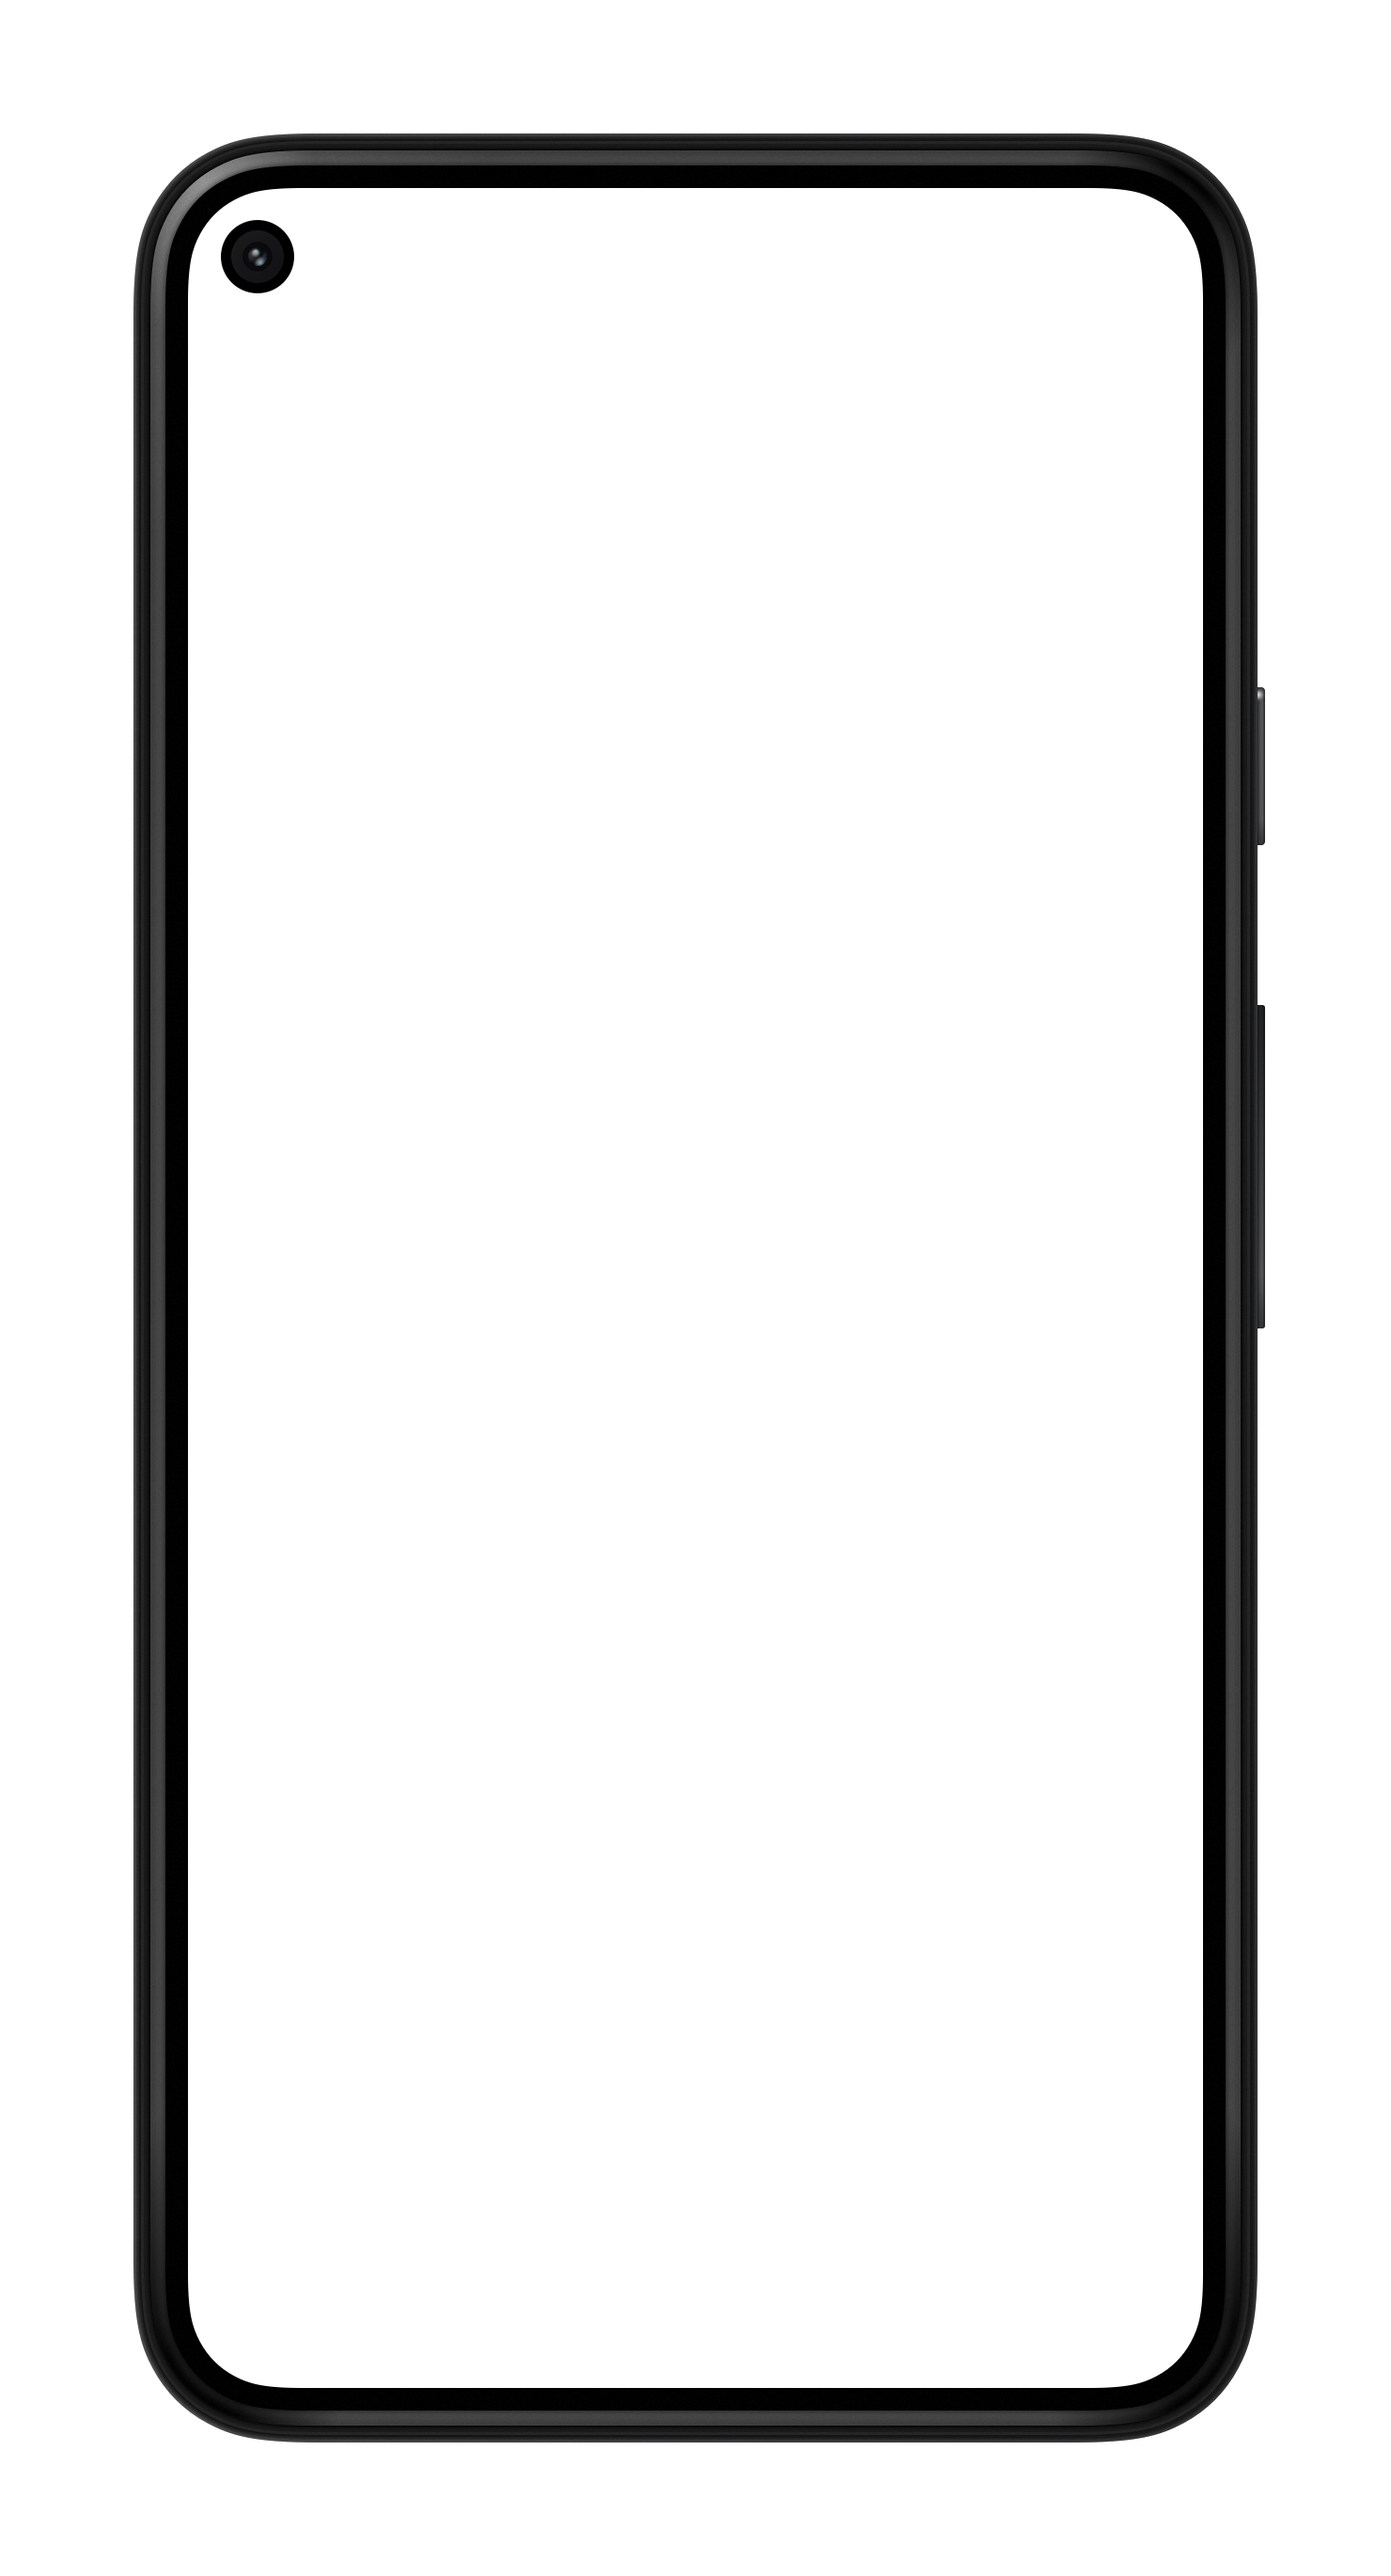
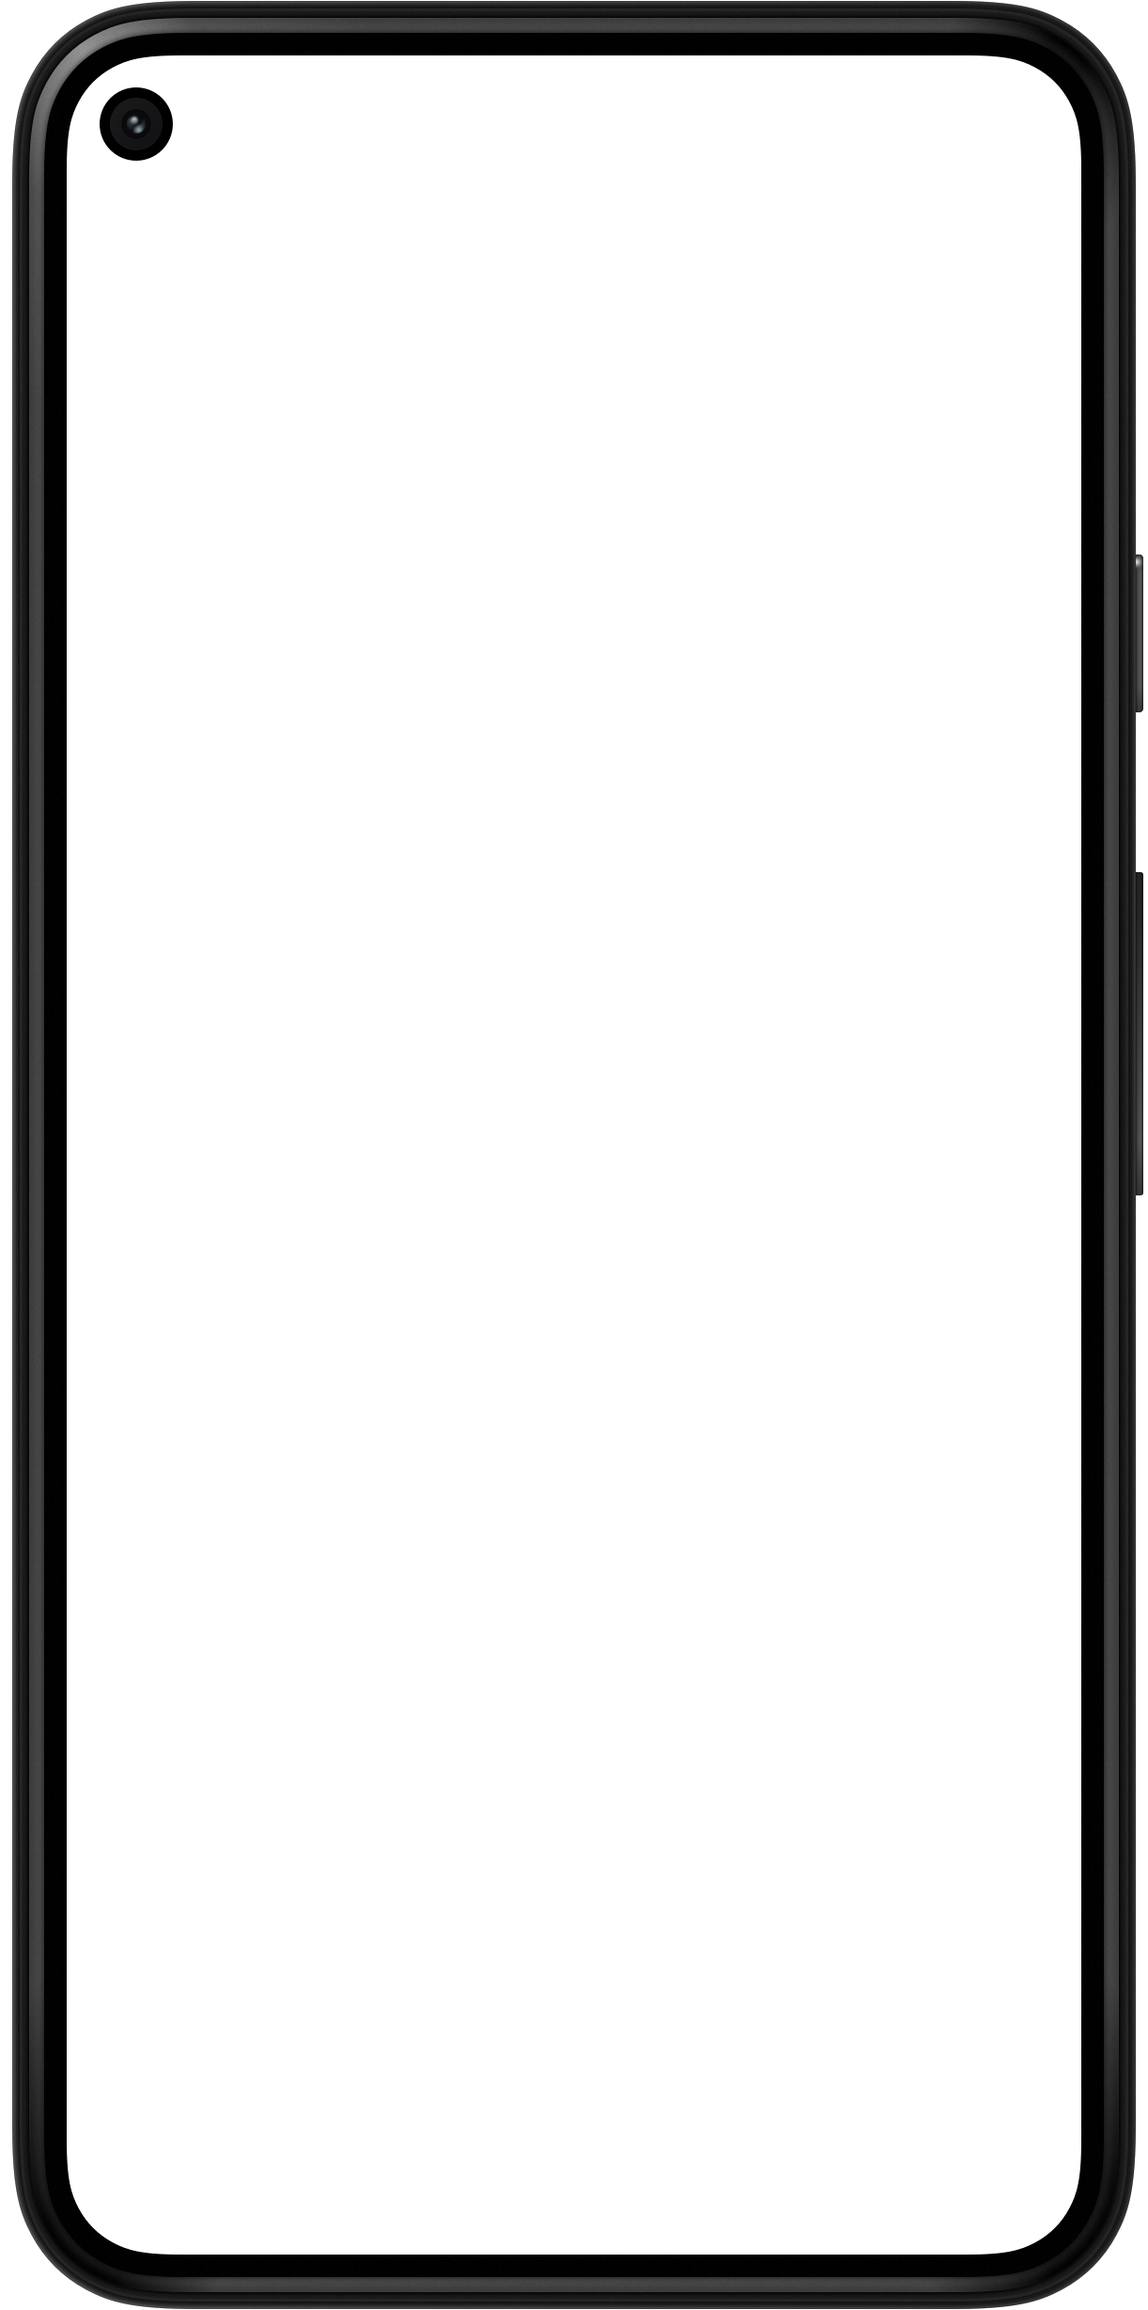
Fix Smartphone componenet

Changed region(s): [[0.0, 0.0, 1.0, 1.0]]

diff --git a/src/components/Features.tsx b/src/components/Features.tsx
@@ -1,23 +1,38 @@
-import Image from "next/image";
-import { Container } from "@/components/Container";
-import heroImg from "../../public/img/hero.png";
-import { SectionTitle } from "./SectionTitle";
+"use client";
 
+import { Container } from "@/components/Container";
+import { SectionTitle } from "./SectionTitle";
+import {
+  MapIcon,
+  TicketIcon,
+  MegaphoneIcon,
+  UserCircleIcon,
+} from "@heroicons/react/24/solid";
+import Smartphone from "./Smartphone";
+import { useState } from "react";
+import mapImg from "../../public/img/screenshots/map.png";
+
+// MiniSectionTitle component
 export const MiniSectionTitle = (props: any) => {
   const alignment = props.bulletPoint % 2 ? "right" : "left";
   const alignmentClasses =
     alignment === "right" ? "items-end text-right" : "items-start text-left";
 
+  const Icon = props.icon;
+
   return (
     <div className={`flex flex-col ${alignmentClasses}`}>
-      <button className="w-12 h-12 mt-3 text-center text-white bg-indigo-600 rounded-xl hover:bg-indigo-500">
-        {props.bulletPoint}
+      <button
+        className="flex items-center justify-center flex-shrink-0 mt-1 bg-indigo-500 rounded-md w-11 h-11 "
+        onClick={props.onClick}
+      >
+        <Icon className="w-7 h-7 text-indigo-50" />
       </button>
       <Container className={`flex w-full flex-col mt-1 ${alignmentClasses}`}>
         {props.title && (
-          <h2 className="max-w-2xl mt-3 text-md font-bold leading-snug tracking-tight text-gray-800 lg:leading-tight dark:text-white">
+          <h4 className="max-w-2xl mt-3 text-md font-bold leading-snug tracking-tight text-gray-800 lg:leading-tight dark:text-white">
             {props.title}
-          </h2>
+          </h4>
         )}
 
         {props.children && (
@@ -30,6 +45,7 @@ export const MiniSectionTitle = (props: any) => {
   );
 };
 
+// Features component
 export const Features = () => {
   const bulletPoints = [
     {
@@ -37,26 +53,37 @@ export const Features = () => {
       title: "Map",
       description:
         "Explore and find parties happening around you with our interactive map.",
+      icon: MapIcon,
+      imageSrc: mapImg,
     },
+
     {
       bulletIndex: 2,
-      title: "Tickets",
-      description:
-        "Easily manage and keep track of all your purchased tickets in one place.",
-    },
-    {
-      bulletIndex: 3,
       title: "Hosting",
       description:
         "Plan and organize your own parties with our user-friendly hosting interface.",
+      icon: MegaphoneIcon,
+      imageSrc: mapImg,
+    },
+    {
+      bulletIndex: 3,
+      title: "Tickets",
+      description:
+        "Easily manage and keep track of all your purchased tickets in one place.",
+      icon: TicketIcon,
+      imageSrc: mapImg,
     },
     {
       bulletIndex: 4,
       title: "Account",
       description:
         "Customize your unique party experience with your personal Tulum account.",
+      icon: UserCircleIcon,
+      imageSrc: mapImg,
     },
   ];
+  const [selectedButton, setSelectedButton] = useState(1);
+
   return (
     <>
       <SectionTitle title="How Tulum Works">
@@ -74,7 +101,10 @@ export const Features = () => {
                 <MiniSectionTitle
                   title={point.title}
                   bulletPoint={point.bulletIndex}
+                  isSelected={point.bulletIndex === selectedButton}
                   key={index}
+                  onClick={() => setSelectedButton(point.bulletIndex)}
+                  icon={point.icon}
                 >
                   {point.description}
                 </MiniSectionTitle>
@@ -83,15 +113,12 @@ export const Features = () => {
 
           {/* Center Column for image */}
           <div className="relative flex items-center justify-center mx-16">
-            <div className="absolute w-[450px] h-[450px] bg-indigo-500 rounded-full hidden sm:block"></div>
-            <Image
-              src={heroImg}
+            <div className="absolute w-[450px] h-[450px] bg-indigo-500 rounded-full hidden lg:block sm:w-[150px] sm:h-[150px]"></div>
+            <Smartphone
               width="550"
               height="550"
-              alt="Hero Illustration"
               className="relative rotate-[5deg]"
-              loading="eager"
-              placeholder="blur"
+              src={bulletPoints[selectedButton - 1].imageSrc.src}
             />
           </div>
 
@@ -104,6 +131,9 @@ export const Features = () => {
                   title={point.title}
                   bulletPoint={point.bulletIndex}
                   key={index}
+                  icon={point.icon}
+                  onClick={() => setSelectedButton(point.bulletIndex)}
+                  isSelected={point.bulletIndex === selectedButton}
                 >
                   {point.description}
                 </MiniSectionTitle>

diff --git a/src/components/data.js b/src/components/data.js
@@ -1,57 +1,57 @@
 import {
-  FaceSmileIcon,
-  ChartBarSquareIcon,
-  CursorArrowRaysIcon,
-  DevicePhoneMobileIcon,
-  AdjustmentsHorizontalIcon,
-  SunIcon,
+  MagnifyingGlassCircleIcon,
+  UserGroupIcon,
+  ShareIcon,
+  CurrencyDollarIcon,
+  StarIcon,
+  ChartBarIcon,
 } from "@heroicons/react/24/solid";
 
 import benefitOneImg from "../../public/img/svgs/partyticket.svg";
 import benefitTwoImg from "../../public/img/svgs/host.svg";
 
 const benefitOne = {
-  title: "Highlight your benefits",
-  desc: "You can use this space to highlight your first benefit or a feature of your product. It can also contain an image or Illustration like in the example along with some bullet points.",
+  title: "Guest Benefits with Tulum",
+  desc: "Experience Parties as a Tulum Guest",
   image: benefitOneImg,
   bullets: [
     {
-      title: "Understand your customers",
-      desc: "Then explain the first point breifly in one or two lines.",
-      icon: <FaceSmileIcon />,
+      title: "Discover Exciting Parties",
+      desc: "Use the map to find parties that match your interests in your area. Easily purchase and manage your tickets within the app.",
+      icon: <MagnifyingGlassCircleIcon />,
     },
     {
-      title: "Improve acquisition",
-      desc: "Here you can add the next benefit point.",
-      icon: <ChartBarSquareIcon />,
+      title: "Connect with Like-minded People",
+      desc: "Find and interact with other party-goers who share your interests. Check their relationship status and make new friends or connections.",
+      icon: <UserGroupIcon />,
     },
     {
-      title: "Drive customer retention",
-      desc: "This will be your last bullet point in this section.",
-      icon: <CursorArrowRaysIcon />,
+      title: "Social Media Integration",
+      desc: "Connect your Tulum account with platforms like TikTok. Share your party experiences and grow your social network, making every event memorable.",
+      icon: <ShareIcon />,
     },
   ],
 };
 
 const benefitTwo = {
-  title: "Offer more benefits here",
-  desc: "You can use this same layout with a flip image to highlight your rest of the benefits of your product. It can also contain an image or Illustration as above section along with some bullet points.",
+  title: "Host Benefits with Tulum",
+  desc: "Why Host Parties with Tulum?",
   image: benefitTwoImg,
   bullets: [
     {
-      title: "Mobile Responsive Template",
-      desc: "Tulum is designed as a mobile first responsive template.",
-      icon: <DevicePhoneMobileIcon />,
+      title: "Earn Money with Party Coins",
+      desc: "As a host, earn Party Coins for every ticket sold to your events. Convert these Party Coins into real money, making your hosting efforts profitable.",
+      icon: <CurrencyDollarIcon />,
     },
     {
-      title: "Powered by Next.js & TailwindCSS",
-      desc: "This template is powered by latest technologies and tools.",
-      icon: <AdjustmentsHorizontalIcon />,
+      title: "Simple and Efficient Hosting",
+      desc: "Use our intuitive interface to plan and manage your events seamlessly. Track ticket sales, manage guest lists, and ensure a smooth event experience.",
+      icon: <ChartBarIcon />,
     },
     {
-      title: "Dark & Light Mode",
-      desc: "Tulum comes with a zero-config light & dark mode. ",
-      icon: <SunIcon />,
+      title: "Build Your Reputation",
+      desc: "Gain ratings and reviews from your guests, helping you build a solid reputation as a top host. The better your events, the more you earn and grow your following.",
+      icon: <StarIcon />,
     },
   ],
 };

diff --git a/src/components/Smartphone.tsx b/src/components/Smartphone.tsx
@@ -1,37 +1,55 @@
 // components/Smartphone.js
 import Image from "next/image";
 import heroImg from "../../public/img/heron.png";
-import mapImg from "../../public/img/screenshots/map.png";
 
 import React from "react";
 
-const Smartphone = () => {
+interface Props {
+  src: string;
+}
+
+const Smartphone = ({ src }: Props) => {
   return (
-    <div className="flex justify-center items-center">
-      <div className="relative w-100">
-        <Image
-          src={heroImg}
-          alt="iPhone Mockup"
-          className="w-full z-10"
-          width="350"
-          height="700" // Adjust the height to match your mockup image
-          loading="eager"
-          placeholder="blur"
-        />
-        <div className="absolute top-0 left-0">
-          <Image
-            src={mapImg}
-            alt="Map"
-            className="w-full h-full object-cover z-20"
-            width="350"
-            height="350"
-            loading="eager"
-            placeholder="blur"
-          />
-        </div>
-      </div>
+    <div className="relative w-[350px] h-[700px] mt-16 mx-auto p-4 pt-2 pb-8 shadow-lg rounded-3xl justify-center">
+      <div
+        className="absolute w-full h-full bg-cover bg-center rounded-2xl overflow-y-auto z-20"
+        style={{ backgroundImage: `url(${heroImg.src})` }}
+      ></div>
+      <div
+        className="absolute w-full h-full  bg-cover bg-center rounded-2xl overflow-y-auto top-[0] left-[5%] scale-x-90 scale-y-90"
+        style={{ backgroundImage: `url(${src})` }}
+      ></div>
     </div>
   );
+
+  // return (
+  //   <div className="flex justify-center items-center">
+  //     <div className="relative w-100">
+  //       <Image
+  //         src={heroImg}
+  //         alt="iPhone Mockup"
+  //         className="w-full z-10"
+  //         width="350"
+  //         height="700" // Adjust the height to match your mockup image
+  //         loading="eager"
+  //         placeholder="blur"
+  //         {...rest}
+  //       />
+  //       <div className="absolute top-0 left-0">
+  //         <Image
+  //           src={heroImg}
+  //           alt="Map"
+  //           className="w-full h-full object-cover z-20"
+  //           width="350"
+  //           height="350"
+  //           loading="eager"
+  //           placeholder="blur"
+  //           {...rest}
+  //         />
+  //       </div>
+  //     </div>
+  //   </div>
+  // );
 };
 
 export default Smartphone;

diff --git a/src/app/page.tsx b/src/app/page.tsx
@@ -2,25 +2,25 @@ import { Container } from "@/components/Container";
 import { Hero } from "@/components/Hero";
 import { SectionTitle } from "@/components/SectionTitle";
 import { Benefits } from "@/components/Benefits";
-import { Video } from "@/components/Video";
-import { Testimonials } from "@/components/Testimonials";
+// import { Video } from "@/components/Video";
+// import { Testimonials } from "@/components/Testimonials";
 import { Faq } from "@/components/Faq";
-import { Cta } from "@/components/Cta";
+// import { Cta } from "@/components/Cta";
 
 import { benefitOne, benefitTwo } from "@/components/data";
 import { Features } from "@/components/Features";
-import { Finance } from "@/components/Finance";
+// import { Finance } from "@/components/Finance";
 export default function Home() {
   return (
     <Container>
       <Hero />
       <Features />
-      <Finance />
+      {/* <Finance /> */}
 
       <Benefits data={benefitOne} />
       <Benefits imgPos="right" data={benefitTwo} />
 
-      <SectionTitle
+      {/* <SectionTitle
         preTitle="Watch a video"
         title="Learn how to fullfil your needs"
       >
@@ -29,25 +29,25 @@ export default function Home() {
         don&apos;t forget to add one. Just like this.
       </SectionTitle>
 
-      <Video videoId="fZ0D0cnR88E" />
+      <Video videoId="fZ0D0cnR88E" /> */}
 
-      <SectionTitle
+      {/* <SectionTitle
         preTitle="Testimonials"
         title="Here's what our customers said"
       >
         Testimonials is a great way to increase the brand trust and awareness.
         Use this section to highlight your popular customers.
-      </SectionTitle>
+      </SectionTitle> */}
 
-      <Testimonials />
+      {/* <Testimonials /> */}
 
-      <SectionTitle preTitle="FAQ" title="Frequently Asked Questions">
+      <SectionTitle title="Frequently Asked Questions">
         Answer your customers possible questions here, it will increase the
         conversion rate as well as support or chat requests.
       </SectionTitle>
 
       <Faq />
-      <Cta />
+      {/* <Cta /> */}
     </Container>
   );
 }

diff --git a/src/components/Hero.tsx b/src/components/Hero.tsx
@@ -1,7 +1,7 @@
 import Image from "next/image";
 import { Container } from "@/components/Container";
 import Smartphone from "./Smartphone";
-import mapImg from "../../public/img/screenshots/map.png";
+import exampleImg from "../../public/img/screenshots/example.png";
 
 export const Hero = () => {
   return (
@@ -37,7 +37,7 @@ export const Hero = () => {
         </div>
         <div className="flex items-center justify-center w-full lg:w-1/2">
           <div className="flex items-right">
-            <Smartphone />
+            <Smartphone src={exampleImg.src} />
             {/* <Image
               src={mapImg}
               width="350"
